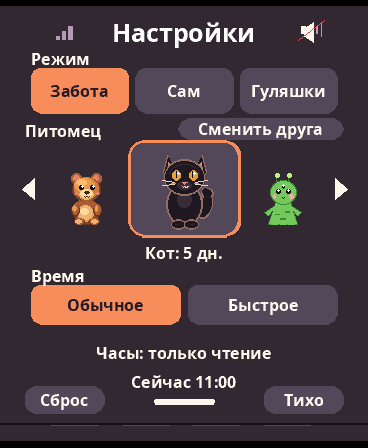
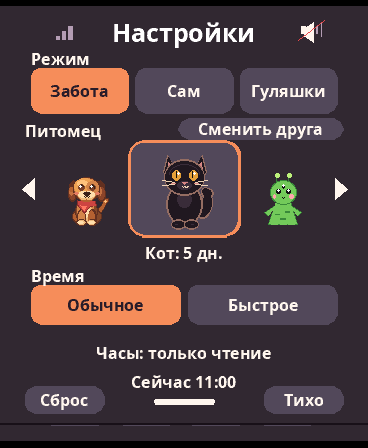
Show the animated Caramel puppy in the Russian gallery

Changed region(s): [[0.1793, 0.375, 0.2989, 0.5]]

diff --git a/docs/SCREENSHOTS_RU.md b/docs/SCREENSHOTS_RU.md
@@ -1,8 +1,8 @@
 # Скриншоты MedveGoshi
 
-[← На главную](../README.md) · [Бйорни крупным планом](#бйорни-крупным-планом)
+[← На главную](../README.md) · [Карамелька в движении](#карамелька-в-движении) · [Бйорни крупным планом](#бйорни-крупным-планом)
 
-Все кадры сняты в эмуляторе **AMOLED V1, 368×448** из русской сборки [PR #2](https://github.com/Medvedolog/medvegoshi/pull/2). Реплики, часы и метки полей набраны пропорциональным Noto Sans Bold в родном разрешении, как и меню. В крупном режиме сцена рисуется прямо в 368×435 внутри панели, без растягивания кадра 240×284. Карамелька получила новый облик медвежонка с несколькими тонами шерсти и мелкими бликами на AMOLED. Слева игровой момент, справа тот же питомец в меню «Настройки». Подписи поясняют сцену; реплики в кавычках взяты с экрана. Нажми на кадр, чтобы увеличить.
+Все кадры сняты в эмуляторе **AMOLED V1, 368×448** из русской сборки [PR #2](https://github.com/Medvedolog/medvegoshi/pull/2). Реплики, часы и метки полей набраны пропорциональным Noto Sans Bold в родном разрешении, как и меню. В крупном режиме сцена рисуется прямо в 368×435 внутри панели, без растягивания кадра 240×284. Карамелька получила новый облик щенка: длинные ушки, светлая мордочка, карамельные тени и мелкие блики на AMOLED. Слева игровой момент, справа тот же питомец в меню «Настройки». Подписи поясняют сцену; реплики в кавычках взяты с экрана. Нажми на кадр, чтобы увеличить.
 
 | Питомец и сцена | В игре | В настройках |
 |---|:---:|:---:|
@@ -18,6 +18,12 @@
 | **10. Пип**<br>Самостоятельный режим<br>«17:00» | <a href="img/medvegoshi-ru/gallery/pip-play.png"><img src="img/medvegoshi-ru/gallery/pip-play.png" width="174" alt="Пип — Самостоятельный режим"></a> | <a href="img/medvegoshi-ru/gallery/pip-settings.png"><img src="img/medvegoshi-ru/gallery/pip-settings.png" width="174" alt="Пип в меню Настройки"></a> |
 | **11. Жирафик**<br>Взрослый на прогулке<br>«Поле 1» | <a href="img/medvegoshi-ru/gallery/girafa-play.png"><img src="img/medvegoshi-ru/gallery/girafa-play.png" width="174" alt="Жирафик — Взрослый на прогулке"></a> | <a href="img/medvegoshi-ru/gallery/girafa-settings.png"><img src="img/medvegoshi-ru/gallery/girafa-settings.png" width="174" alt="Жирафик в меню Настройки"></a> |
 | **12. Бйорни**<br>Вечерние гуляшки<br>«Поле 1» | <a href="img/medvegoshi-ru/gallery/bjorni-play.png"><img src="img/medvegoshi-ru/gallery/bjorni-play.png" width="174" alt="Бйорни — Вечерние гуляшки"></a> | <a href="img/medvegoshi-ru/gallery/bjorni-settings.png"><img src="img/medvegoshi-ru/gallery/bjorni-settings.png" width="174" alt="Бйорни в меню Настройки"></a> |
+
+## Карамелька в движении
+
+Щенок виляет хвостом в покое, жуёт во время кормления, радуется ласке и укладывает хвост во сне. На ходу поднимает лапки по очереди, а в прыжке ушки слегка подлетают. Это кадры из эмулятора, не отдельная рисованная анимация.
+
+[![Карамелька виляет хвостом, ест, радуется ласке и спит](img/medvegoshi-ru/caramel-motion.gif)](img/medvegoshi-ru/caramel-motion.gif)
 
 ## Бйорни крупным планом
 

diff --git a/README.md b/README.md
@@ -40,7 +40,7 @@
 
 ### 12 питомцев
 
-Девять из Capigoshi: **Капи, Слон, Утка, Осьминог, Попугай, Карамелька, Кот, Пришелец и Лягушонок**. В русской версии Карамелька теперь медвежонок с карамельной шерстью и светлыми подушечками лап; прежнее сохранение остаётся совместимым. В MedveGoshi к ним добавились **Пип, Жирафик и Бйорни**. У каждого своё сохранение: можно сменить питомца, а потом вернуться к прежнему прогрессу. Новые персонажи подключаются через [модульный каталог Zoo](https://github.com/Medvedolog/medvegoshi/tree/feature/russian-game-ui/zoo).
+Девять из Capigoshi: **Капи, Слон, Утка, Осьминог, Попугай, Карамелька, Кот, Пришелец и Лягушонок**. Карамелька остаётся щенком: висячие уши, светлая мордочка и карамельные тени. У неё теперь отдельные движения хвоста, ушей и лап; прежнее сохранение остаётся совместимым. В MedveGoshi к ним добавились **Пип, Жирафик и Бйорни**. У каждого своё сохранение: можно сменить питомца, а потом вернуться к прежнему прогрессу. Новые персонажи подключаются через [модульный каталог Zoo](https://github.com/Medvedolog/medvegoshi/tree/feature/russian-game-ui/zoo).
 
 ## Откуда проект
 
